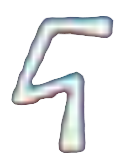
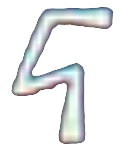
maj

diff --git a/Iconographie.html b/Iconographie.html
@@ -1,30 +1,16 @@
+<!-- ============================================================================================================== -->
+<!--                                                                                                                -->
+<!--                                                 Iconographie                                                   -->
+<!--                                                                                                                -->
+<!-- ============================================================================================================== -->
+
 <!doctype html>
 <html lang = fr>
 <head>
 	<title>Iconographie</title>
 	<meta charset = utf-8>
 	<link rel = "shortcut icon" href = Noms/Grec/ΙΣ.png>
-	<style>
-		* {
-			color: #ffffff;
-			font-family: garamond;
-			text-align: center;
-			margin: auto;
-		}
-		body {
-			background-color: #303841;
-			font-size: 25px;
-		}
-		.div-colonnes {display: flex;}
-		img {
-			filter: drop-shadow(0 0 1px #ffffff);
-			width: 100px;
-		}
-		td {border: 1px #ffffff solid;}
-		.table-anglais td {border-color: blue;}
-		.table-grec td {border-color: green;}
-		.table-latin td {border-color: red;}
-	</style>
+	<link rel = stylesheet href = Iconographie.css>
 </head>
 <body>
 
@@ -102,41 +88,36 @@
 		<tr>
 			<td>Α + Η =</td>
 			<td><img src = Ligatures/Grec/ΑΗ.png alt = ΑΗ></td>
-		</tr>
-		<tr>
+		</tr><tr>
 			<td>Α + Ρ =</td>
 			<td><img src = Ligatures/Grec/ΑΡ.png alt = ΑΡ></td>
-		</tr>
-		<tr>
+		</tr><tr>
 			<td>Α + Υ =</td>
 			<td><img src = Ligatures/Grec/ΑΥ.png alt = ΑΥ></td>
-		</tr>
-		<tr>
+		</tr><tr>
 			<td>Η + Μ =</td>
 			<td><img src = Ligatures/Grec/ΗΜ.png alt = ΗΜ></td>
-		</tr>
-		<tr>
+		</tr><tr>
 			<td>Η + Μ + Η + Ν =</td>
 			<td><img src = Ligatures/Grec/ΗΜΗΝ.png alt = ΗΜΗΝ></td>
-		</tr>
-		<tr>
+		</tr><tr>
 			<td>Ο + Α =</td>
 			<td><img src = Ligatures/Grec/ΟΑ.png alt = ΟΑ></td>
 			<td><img src = Ligatures/Grec/ΟΑ-2.png alt = ΟΑ></td>
 			<td><img src = Ligatures/Grec/ΟΑ-3.png alt = ΟΑ></td>
-		</tr>
-		<tr>
+		</tr><tr>
 			<td>Ο + Σ =</td>
-			<td><img src = Ligatures/Grec/ΟΣ.png alt = ΟΣ></td>
-			<td><img src = Ligatures/Grec/ΟΣ-2.png alt = ΟΣ></td>
-		</tr>
-		<tr>
+			<td><img src = Ligatures/Grec/ΟΣ.png class = img-1-accent alt = ΟΣ></td>
+			<td><img src = Ligatures/Grec/ΟΣ-2.png class = img-2 alt = ΟΣ></td>
+		</tr><tr>
 			<td>Π + Ρ =</td>
 			<td><img src = Ligatures/Grec/ΠΡ.png alt = ΠΡ></td>
-		</tr>
-		<tr>
+		</tr><tr>
 			<td>Σ + Τ =</td>
 			<td><img src = Ligatures/Grec/ΣΤ.png alt = ΣΤ></td>
+		</tr><tr>
+			<td>Τ + Ω =</td>
+			<td><img src = Ligatures/Grec/ΤΩ.png alt = ΤΩ></td>
 		</tr>
 	</table>
 </div>
@@ -146,21 +127,19 @@
 	<table class = table-grec>
 		<tr>
 			<td>Ὁ ΆΓΙΟΣ</td>
-			<td><img src = Textes/Grec/Ὁ-ΆΓΙΟΣ.png alt = Ὁ-ΆΓΙΟΣ></td>
+			<td><img src = Textes/Grec/Ὁ-ΆΓΙΟΣ.png class = img-1-accent alt = Ὁ-ΆΓΙΟΣ></td>
 			<td><img src = Textes/Grec/Ὁ-ΆΓΙΟΣ-2.png alt = Ὁ-ΆΓΙΟΣ></td>
-		</tr>
-		<tr>
+		</tr><tr>
 			<td>Ὁ Ά</td>
-			<td><img src = Textes/Grec/Ὁ-Ά.png alt = Ὁ-Ά></td>
-			<td><img src = Textes/Grec/Ὁ-Ά-2.png alt = Ὁ-Ά></td>
-			<td><img src = Textes/Grec/Ὁ-Ά-3.png alt = Ὁ-Ά></td>
+			<td><img src = Textes/Grec/Ὁ-Ά.png class = img-1-accent alt = Ὁ-Ά></td>
+			<td><img src = Textes/Grec/Ὁ-Ά-2.png class = img-1-accent alt = Ὁ-Ά></td>
+			<td><img src = Textes/Grec/Ὁ-Ά-3.png class = img-1-accent alt = Ὁ-Ά></td>
 		</tr>
 	</table>
 	<table class = table-latin>
 		<tr>
 			<td>SANCTUS</td>
-		</tr>
-		<tr>
+		</tr><tr>
 			<td>SCS</td>
 			<td><img src = Textes/Latin/SCS.png alt = SCS></td>
 			<td><img src = Textes/Latin/SCS-2.png alt = SCS></td>
@@ -182,10 +161,9 @@
 	<table class = table-grec>
 		<tr>
 			<td>ΜΗΤΗΡ ΘΕΟΥ</td>
-		</tr>
-		<tr>
+		</tr><tr>
 			<td>ΜΡ ΘΥ</td>
-			<td><img src = Textes/Grec/ΜΡ.png alt = ΜΡ><img src = Textes/Grec/ΘΥ.png alt = ΘΥ></td>
+			<td><img src = Textes/Grec/ΜΡ.png class = img-1-accent alt = ΜΡ><img src = Textes/Grec/ΘΥ.png class = img-1-accent alt = ΘΥ></td>
 		</tr>
 	</table>
 </div>
@@ -194,8 +172,7 @@
 	<table class = table-grec>
 		<tr>
 			<td>ΙΗΣΟΥΣ ΧΡΙΣΤΟΣ ΘΕΟΥ ΥΙΟΣ ΣΩΤΗΡ</td>
-		</tr>
-		<tr>
+		</tr><tr>
 			<td>ΙΧΘΥΣ</td>
 			<td><img src = Textes/Grec/ΙΧΘΥΣ.png alt = ΙΧΘΥΣ></td>
 		</tr>
@@ -215,22 +192,20 @@
 	<table class = table-grec>
 		<tr>
 			<td>Ὁ ἈΡΧΑΓΓΕΛΟΣ</td>
-		</tr>
-		<tr>
+		</tr><tr>
 			<td>Ὁ ἌΡΧΩΝ</td>
 			<td><img src = Textes/Grec/Ὁ-ἌΡΧΩΝ.png alt = Ὁ-ἌΡΧΩΝ></td>
-		</tr>
-		<tr>
+		</tr><tr>
 			<td>Ὁ ἌΡ</td>
-			<td><img src = Textes/Grec/Ὁ-ἌΡ.png alt = Ὁ-ἌΡ></td>
-			<td><img src = Textes/Grec/Ὁ-ἌΡ-2.png alt = Ὁ-ἌΡ></td>
+			<td><img src = Textes/Grec/Ὁ-ἌΡ.png class = img-1-accent alt = Ὁ-ἌΡ></td>
+			<td><img src = Textes/Grec/Ὁ-ἌΡ-2.png class = img-1-accent alt = Ὁ-ἌΡ></td>
 		</tr>
 	</table>
 	<table class = table-anglais>
 		<tr>
 			<td>ARCHANGEL</td>
 			<td><img src = Textes/Anglais/ARCHANGEL.png alt = ARCHANGEL></td>
-			<td><img src = Textes/Anglais/ARCHANGEL-2.png alt = ARCHANGEL></td>
+			<td><img src = Textes/Anglais/ARCHANGEL-2.png class = img-3 alt = ARCHANGEL></td>
 		</tr>
 	</table>
 </div>
@@ -239,7 +214,7 @@
 	<table class = table-grec>
 		<tr>
 			<td>Ὁ ΠΟΡΦΥΡΟΓΈΝΝΗΤΟΣ</td>
-			<td><img src = Textes/Grec/Ὁ-ΠΟΡΦΥΡΟΓΈΝΝΗΤΟΣ.png alt = Ὁ-ΠΟΡΦΥΡΟΓΈΝΝΗΤΟΣ></td>
+			<td><img src = Textes/Grec/Ὁ-ΠΟΡΦΥΡΟΓΈΝΝΗΤΟΣ.png class = img-4-accent alt = Ὁ-ΠΟΡΦΥΡΟΓΈΝΝΗΤΟΣ></td>
 		</tr>
 	</table>
 </div>
@@ -248,8 +223,8 @@
 	<table class = table-grec>
 		<tr>
 			<td>ΒΑΣΙΛΕΎΣ ΡΩΜΑΊΩΝ</td>
-			<td><img src = Textes/Grec/ΒΑΣΙΛΕΎΣ.png alt = ΒΑΣΙΛΕΎΣ></td>
-			<td><img src = Textes/Grec/ΡΩΜΑΊΩΝ.png alt = ΡΩΜΑΊΩΝ></td>
+			<td><img src = Textes/Grec/ΒΑΣΙΛΕΎΣ.png class = img-4 alt = ΒΑΣΙΛΕΎΣ></td>
+			<td><img src = Textes/Grec/ΡΩΜΑΊΩΝ.png class = img-3-accent alt = ΡΩΜΑΊΩΝ></td>
 		</tr>
 	</table>
 </div>
@@ -263,16 +238,27 @@
 		</tr>
 	</table>
 </div>
+<h3>Le tout-puissant</h3>
+<div class = div-colonnes>
+	<table class = table-grec>
+		<tr>
+			<td>Ὁ ΠΑΝΤΟΚΡΆΤΩΡ</td>
+			<td><img src = Textes/Grec/Ὁ-ΠΑΝΤΟ.png class = img-2 alt = Ὁ-ΠΑΝΤΟ></td>
+			<td><img src = Textes/Grec/ΚΡΆΤΩΡ.png class = img-2 alt = ΚΡΆΤΩΡ></td>
+		</tr>
+	</table>
+</div>
 <h3>Noms</h3>
 <h3>Jésus-Christ</h3>
 <div class = div-colonnes>
 	<table class = table-grec>
 		<tr>
 			<td>ΙΗΣΟΎΣ ΧΡΙΣΤΌΣ</td>
-		</tr>
-		<tr>
+		</tr><tr>
 			<td>ΙΣ ΧΣ</td>
-			<td><img src = Noms/Grec/ΙΣ.png alt = ΙΣ><img src = Noms/Grec/ΧΣ.png alt = ΧΣ></td>
+			<td><img src = Noms/Grec/ΙΣ.png class = img-1-accent alt = ΙΣ><img src = Noms/Grec/ΧΣ.png class = img-1-accent alt = ΧΣ></td>
+			<td><img src = Noms/Grec/ΙΣ-2.png class = img-1-accent alt = ΙΣ><img src = Noms/Grec/ΧΣ-2.png class = img-1-accent alt = ΧΣ></td>
+			<td><img src = Noms/Grec/ΙΣ-3.png class = img-1-accent alt = ΙΣ><img src = Noms/Grec/ΧΣ-3.png class = img-1-accent alt = ΧΣ></td>
 		</tr>
 	</table>
 </div>
@@ -281,11 +267,10 @@
 	<table class = table-grec>
 		<tr>
 			<td>ΜΙΧΑΉΛ</td>
-			<td><img src = Noms/Grec/ΜΙΧΑΉΛ.png alt = ΜΙΧΑΉΛ></td>
-		</tr>
-		<tr>
+			<td><img src = Noms/Grec/ΜΙΧΑΉΛ.png class = img-1-accent alt = ΜΙΧΑΉΛ></td>
+		</tr><tr>
 			<td>ΜΙ</td>
-			<td><img src = Noms/Grec/ΜΙ.png alt = ΜΙ></td>
+			<td><img src = Noms/Grec/ΜΙ.png class = img-2 alt = ΜΙ></td>
 		</tr>
 		<table class = table-anglais>
 			<tr>
@@ -315,7 +300,7 @@
 	<table class = table-grec>
 		<tr>
 			<td>ΕΡΑΣΜΟΣ</td>
-			<td><img src = Noms/Grec/ΕΡΑΣΜΟΣ.png alt = ΕΡΑΣΜΟΣ></td>
+			<td><img src = Noms/Grec/ΕΡΑΣΜΟΣ.png class = img-3-accent alt = ΕΡΑΣΜΟΣ></td>
 		</tr>
 	</table>
 </div>
@@ -324,10 +309,9 @@
 	<table class = table-grec>
 		<tr>
 			<td>ΚΩΝΣΤΑΝΤΙΝΟΣ</td>
-		</tr>
-		<tr>
+		</tr><tr>
 			<td>ΚΩΝ</td>
-			<td><img src = Noms/Grec/ΚΩΝ.png alt = ΚΩΝ></td>
+			<td><img src = Noms/Grec/ΚΩΝ.png class = img-1-accent alt = ΚΩΝ></td>
 		</tr>
 	</table>
 </div>
@@ -369,7 +353,7 @@
 	<table class = table-grec>
 		<tr>
 			<td>ΒΕΡΟΝΊΚΗ</td>
-			<td><img src = Noms/Grec/ΒΕΡΟΝΊΚΗ.png alt = ΒΕΡΟΝΊΚΗ></td>
+			<td><img src = Noms/Grec/ΒΕΡΟΝΊΚΗ.png class = img-2-accent alt = ΒΕΡΟΝΊΚΗ></td>
 		</tr>
 	</table>
 </div>
@@ -378,13 +362,18 @@
 	<table class = table-grec>
 		<tr>
 			<td>ΙΩΆΝΝΗΣ</td>
-		</tr>
-		<tr>
+		</tr><tr>
 			<td>ΙΩ</td>
-			<td><img src = Noms/Grec/ΙΩ.png alt = ΙΩ></td>
+			<td><img src = Noms/Grec/ΙΩ.png class = img-1-accent alt = ΙΩ></td>
 		</tr>
 	</table>
 </div>
 
 </body>
 </html>
+
+<!-- ============================================================================================================== -->
+<!--                                                                                                                -->
+<!--                                                 Iconographie                                                   -->
+<!--                                                                                                                -->
+<!-- ============================================================================================================== -->

diff --git a/Iconographie.css b/Iconographie.css
@@ -1,0 +1,42 @@
+/* ================================================================================================================= */
+/*                                                                                                                   */
+/*                                                   Iconographie                                                    */
+/*                                                                                                                   */
+/* ================================================================================================================= */
+
+* {
+	color: #ffffff;
+	font-family: garamond;
+	text-align: center;
+	margin: auto;
+}
+
+body {
+	background-color: #303841;
+	font-size: 25px;
+}
+
+.div-colonnes {display: flex;}
+
+img {
+	filter: drop-shadow(0 0 1px #ffffff);
+	height: 100px;
+}
+.img-1-accent {height: 125px;}
+.img-2 {height: 210px;}
+.img-2-accent {height: 235px;}
+.img-3 {height: 320px;}
+.img-3-accent {height: 345px;}
+.img-4 {height: 430px;}
+.img-4-accent {height: 455px;}
+
+td {border: 1px #ffffff solid;}
+.table-anglais td {border-color: blue;}
+.table-grec td {border-color: green;}
+.table-latin td {border-color: red;}
+
+/* ================================================================================================================= */
+/*                                                                                                                   */
+/*                                                   Iconographie                                                    */
+/*                                                                                                                   */
+/* ================================================================================================================= */
